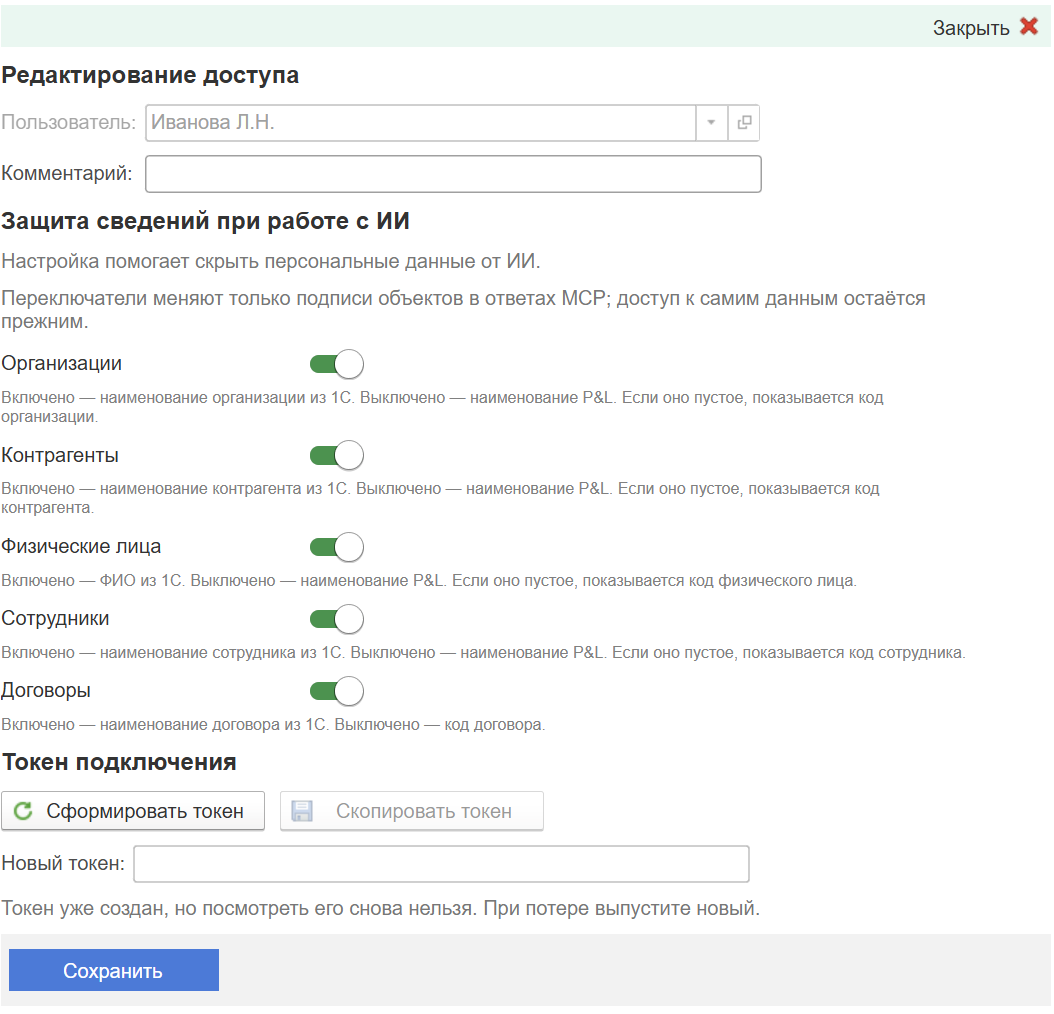
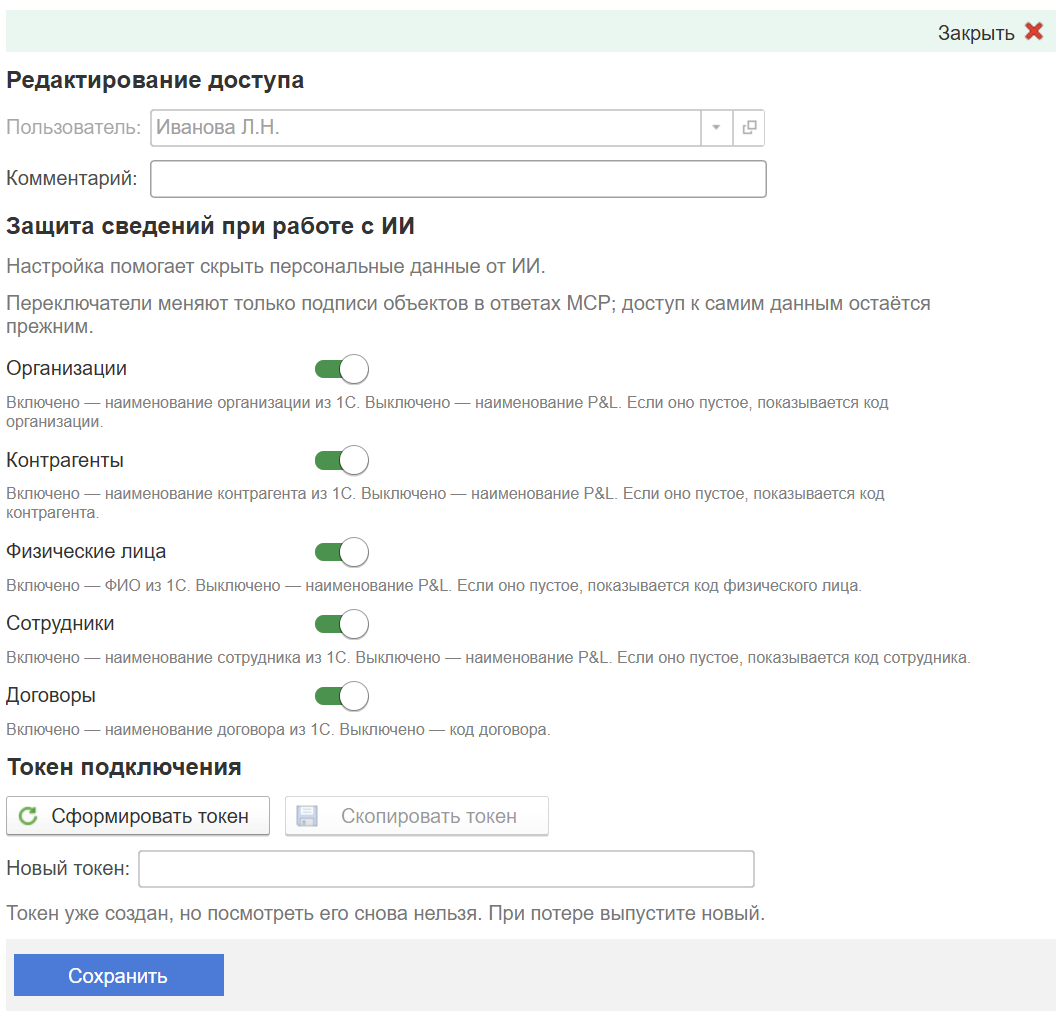
Update 2 files
- p-l/nastroyki/nastroyki-mcp/dlya-administratora.md
   - p-l/nastroyki/nastroyki-mcp/dlya-administratora-2.webp

diff --git a/p-l/nastroyki/nastroyki-mcp/dlya-administratora.md b/p-l/nastroyki/nastroyki-mcp/dlya-administratora.md
@@ -32,7 +32,7 @@ order: 1
 1. На странице MCP нажмите **«Настроить доступ пользователей к MCP»**.
 2. В списке нажмите **«Создать»** и выберите сотрудника из справочника **«Пользователи»**. При необходимости добавьте комментарий, чтобы понимать, кому выдали доступ.
 
-   ![](./dlya-administratora-2.webp){width=1054px height=1014px}
+   ![](./dlya-administratora-2.webp){width=1063px height=1021px}
 3. Выберите, показывать ли обычные наименования **организаций, контрагентов, физических лиц, сотрудников и договоров**. Когда переключатель выключен, для первых четырёх категорий передаётся наименование P&L, если оно заполнено, иначе код; для договора -- код.
 4. Сохраните запись, нажмите **«Сформировать токен»**, затем **«Скопировать токен»**. Передайте токен именно этому человеку.
 
@@ -46,7 +46,7 @@ order: 1
 
 Передайте пользователю:
 
-- ссылку на актуальный архив папки MCP для системы пользователя — Windows или macOS;
+- ссылку на актуальный архив папки MCP для системы пользователя -- Windows или macOS;
 - адрес вида `https://ваш-сервер/имя-публикации/hs/mcp_pnl`;
 - логин и пароль 1С для подключения;
 - его личный токен MCP.
